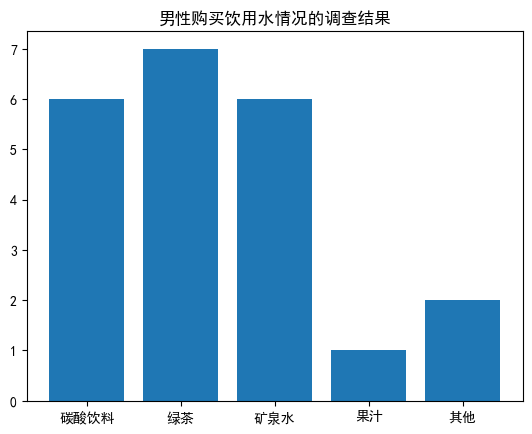
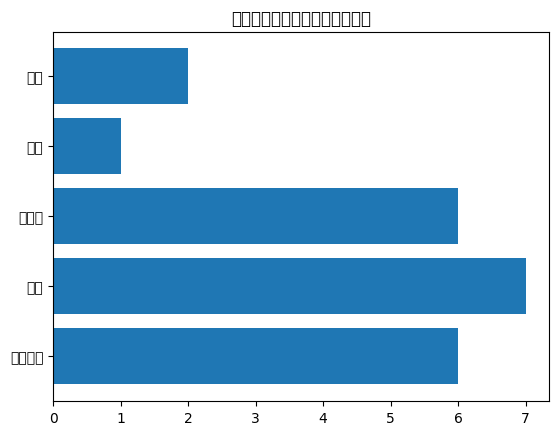
change date

diff --git a/day19-下载数据/文件读取_csv/最高气温和最低气温对比.py b/day19-下载数据/文件读取_csv/最高气温和最低气温对比.py
@@ -32,7 +32,7 @@ with open(filename) as f:
 plt.style.use('seaborn')
 fig, ax = plt.subplots()
 #绘制最高气温为红色
-ax.plot(dates, highs, c='red', alpha=0.5)
+ax.plot(dates, highs, c='red', alpha=0.2)
 #最低气温为蓝色
 ax.plot(dates, lows, c='blue', alpha=0.5)
 #两者之间的颜色空格设置为蓝色，透明度为0.1

diff --git a/day18-matplotlib/横向条形图.py b/day18-matplotlib/横向条形图.py
@@ -8,7 +8,7 @@ plt.rcParams['axes.unicode_minus'] = False
 waters = ('碳酸饮料','绿茶','矿泉水','果汁','其他')
 buy_number = [6,7,6,1,2]
 
-plt.bar(waters,buy_number)
+plt.barh(waters,buy_number)
 plt.title("男性购买饮用水情况的调查结果")
 plt.savefig("横向条形图",bbox_inches="tight")
 plt.show()
